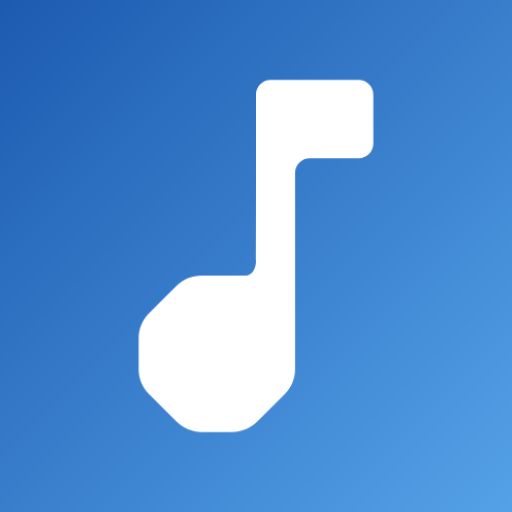
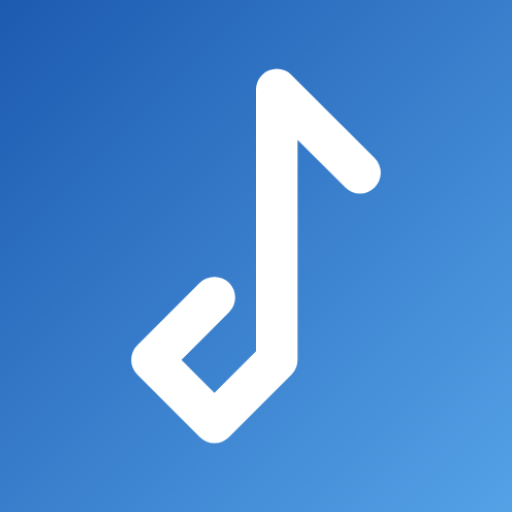
info: update branding
Update app branding.

diff --git a/app/src/main/java/org/oxycblt/auxio/home/HomeFragment.kt b/app/src/main/java/org/oxycblt/auxio/home/HomeFragment.kt
@@ -291,9 +291,10 @@ class HomeFragment :
         for (option in sortMenu) {
             // Check the ascending option and corresponding sort option to align with
             // the current sort of the tab.
-            option.isChecked =
-                option.itemId == toHighlight.mode.itemId ||
-                    (option.itemId == R.id.option_sort_asc && toHighlight.isAscending)
+            if (option.itemId == toHighlight.mode.itemId ||
+                    (option.itemId == R.id.option_sort_asc && toHighlight.isAscending)) {
+                option.isChecked = true
+            }
 
             // Disable options that are not allowed by the isVisible lambda
             option.isVisible = isVisible(option.itemId)

diff --git a/README.md b/README.md
@@ -13,7 +13,7 @@
     </a>
     <img alt="Minimum SDK Version" src="https://img.shields.io/badge/API-21%2B-32B5ED">
 </p>
-<h4 align="center"><a href="/CHANGELOG.md">Changelog</a> | <a href="https://github.com/OxygenCobalt/Auxio/wiki">Wiki</a>
+<h4 align="center"><a href="/CHANGELOG.md">Changelog</a> | <a href="https://github.com/OxygenCobalt/Auxio/wiki">Wiki</a></h4>
 <p align="center">
     <a href="https://f-droid.org/app/org.oxycblt.auxio"><img src="https://fdroid.gitlab.io/artwork/badge/get-it-on.png" width="170"></a>
     <a href="https://hosted.weblate.org/engage/auxio/"><img src="https://hosted.weblate.org/widgets/auxio/-/strings/287x66-grey.png" alt="Translation status" /></a>
@@ -49,7 +49,6 @@ I primarily built Auxio for myself, but you can use it too, I guess.
 - Support for disc numbers, multiple artists, release types,
 precise/original dates, sort tags, and more
 - Advanced artist system that unifies artists and album artists
-into a single entry
 - SD Card-aware folder management
 - Reliable playback state persistence
 - Full ReplayGain support (On MP3, FLAC, OGG, OPUS, and MP4 files)
